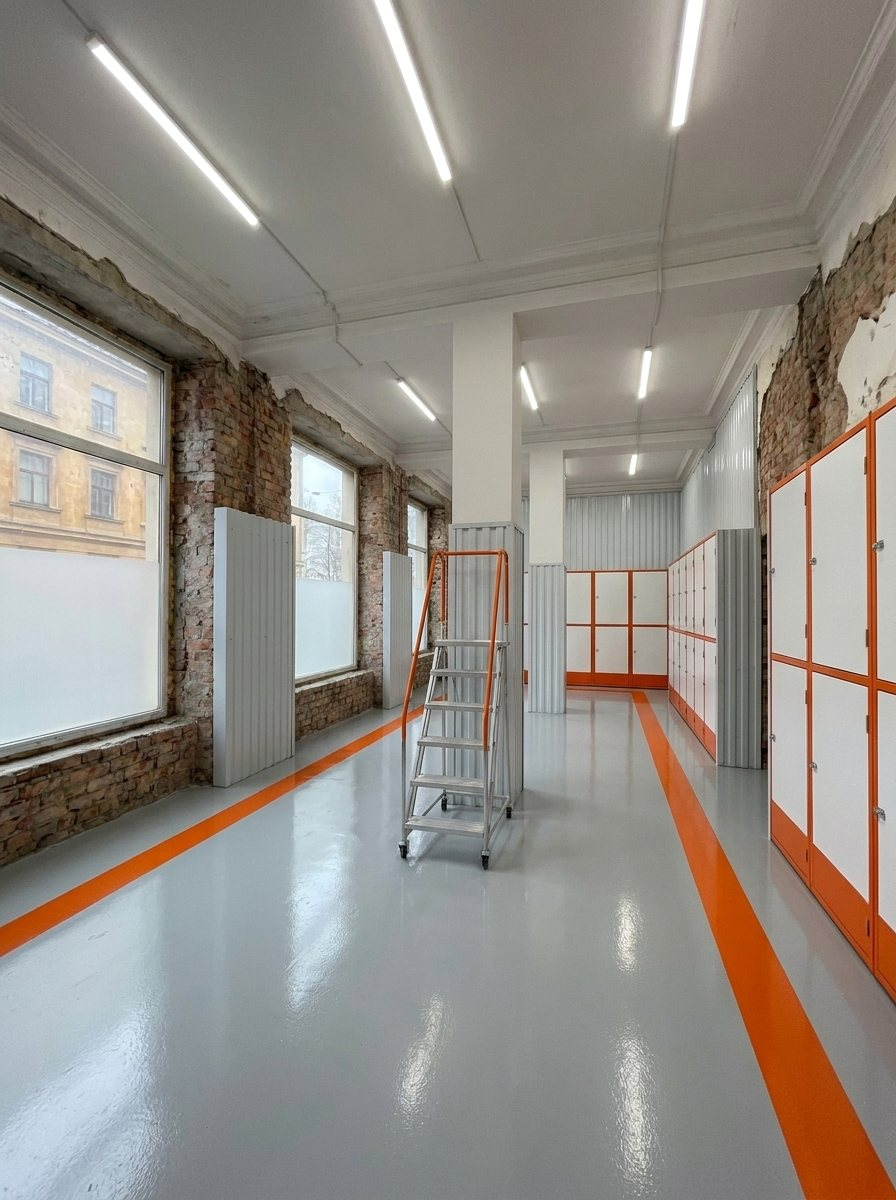
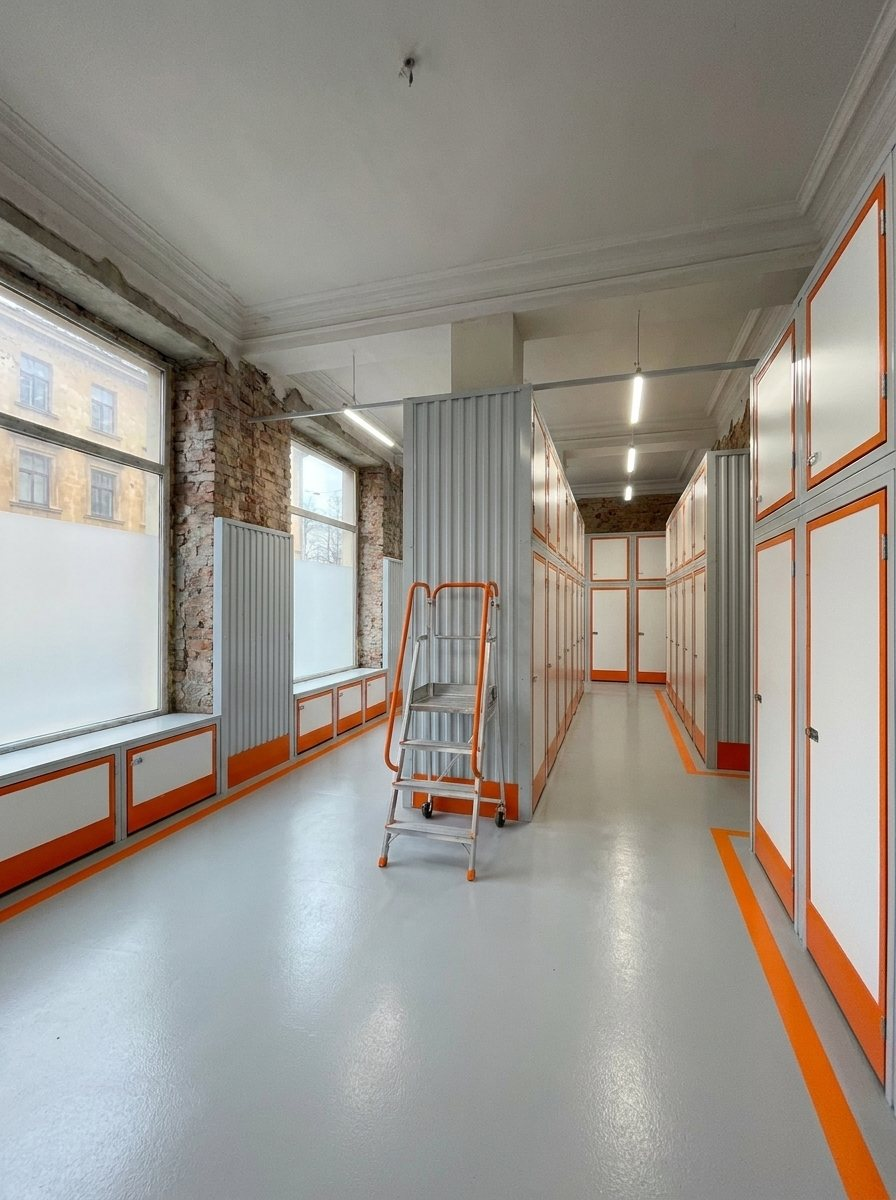
Hero cases: denser after images for Sharjah and Riga

diff --git a/_src/src/data/site.ts b/_src/src/data/site.ts
@@ -20,7 +20,7 @@ export type City = {
 };
 
 // Порядок и состав – CMO 23.11.2026: Шарджа, Бангкок, Рига. Фото Шарджи и Риги – иллюстрации (генерация по типажу местных
-// помещений: landing-icons/gen_cases.py), не фото объектов. Рига – расчёт SpaceHub по лиду (amoCRM 35552471): 176 м² × $5,5 сейчас →
+// помещений: landing-icons/gen_cases.py, «после» плотное – gen_cases2.py), не фото объектов. Рига – расчёт SpaceHub по лиду (amoCRM 35552471): 176 м² × $5,5 сейчас →
 // 234 м² по нашей планировке × $17,6 (ставка Таллина по сайту без акции, €16) × 90 % × 80 %; склад не открыт (F-1784).
 export const CITIES: City[] = [
   { id: "sharjah", name: "Sharjah", region: "Middle East", verified: false, before: "$2,220", after: "$9,700",
